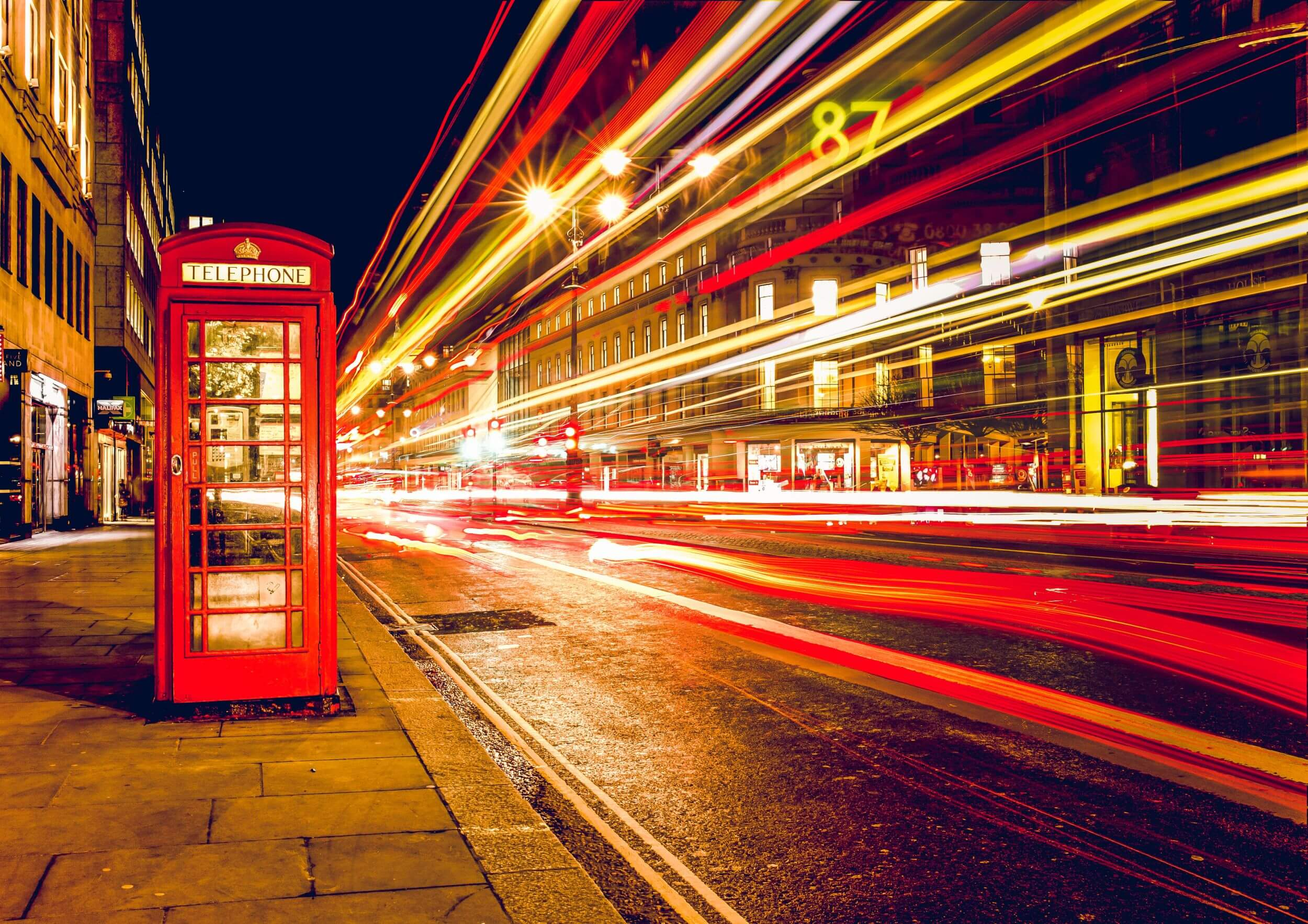
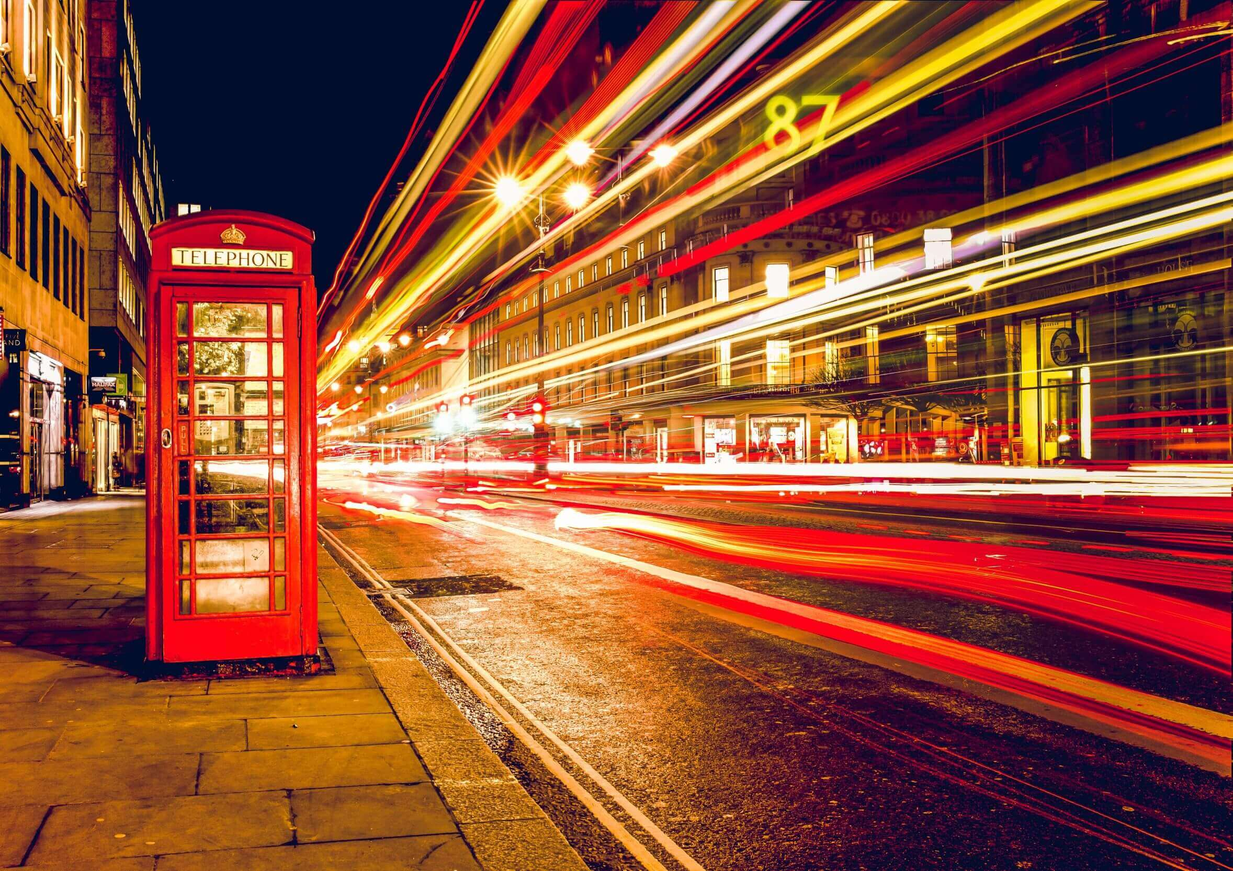
FZ4A-16 slider, próba wyrównania zdjęć

diff --git a/lib/script.js b/lib/script.js
@@ -50,7 +50,7 @@ $(function() {
     var currentIndex = 0,
         items = $('#start .slide'),
         dots = $('#start .dot'),
-        itemAmt = items.length
+        itemAmt = items.length;
 
     cycleItems();
 
@@ -58,10 +58,8 @@ $(function() {
         var item = items.eq(currentIndex),
             dot = dots.eq(currentIndex);
 
-        console.log('Idx inside cycleIt: ' + currentIndex);
-
         items.hide();
-        item.css('display','inline-block');
+        item.css('display','block');
         dots.removeClass('dot-active');
         dot.addClass('dot-active');
     }
@@ -95,8 +93,6 @@ $(function() {
     $('.dot').click(function() {
         clearInterval(autoSlide);
 
-console.log('class:' + $(this).hasClass('dot1'));
-
         if ($(this).hasClass('dot1')) {
             currentIndex = 0;
         } else
@@ -104,7 +100,6 @@ console.log('class:' + $(this).hasClass('dot1'));
             currentIndex = 1;
         } else currentIndex = 2;
 
-        console.log('currIdx2: ' + currentIndex);
         cycleItems();
     });
 

diff --git a/index.html b/index.html
@@ -41,10 +41,10 @@
   </header>
   <main>
     <section id="start">
-      <div class="container-fluid slideshow-container row">
+      <div class="container-fluid slideshow-container">
 
         <div class="slide slide1">
-          <img class="img-responsive" src="images/header-photo.jpg" >
+          <img class="img-responsive" src="images/korek.jpg" >
           <div class="assign-button-wrapper">
             <div class="assign-button"><a href="#invitation"><h2>Zapisz się na premierę</h2></a></div>
           </div>

diff --git a/lib/style.css b/lib/style.css
@@ -119,7 +119,6 @@ body {
 }
 
 .slideshow-container {
-  display: inline-block;
   position: relative;
 }
 
@@ -128,6 +127,11 @@ body {
   overflow: hidden;
   display: none;
   position: relative;
+}
+
+.slide .img-responsive {
+  height: inherit;
+  max-height: 100%;
 }
 
 .assign-button-wrapper {
